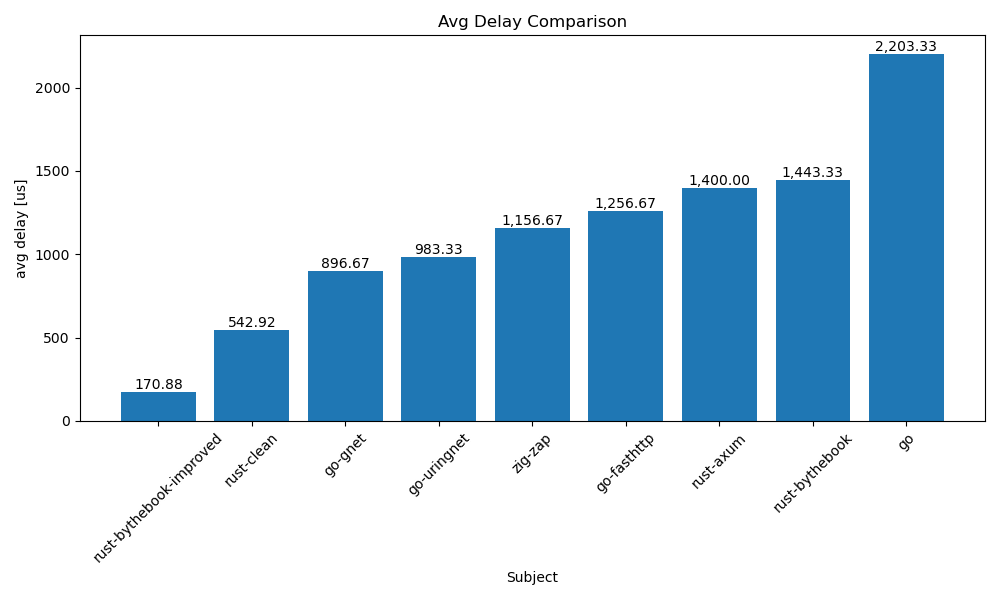
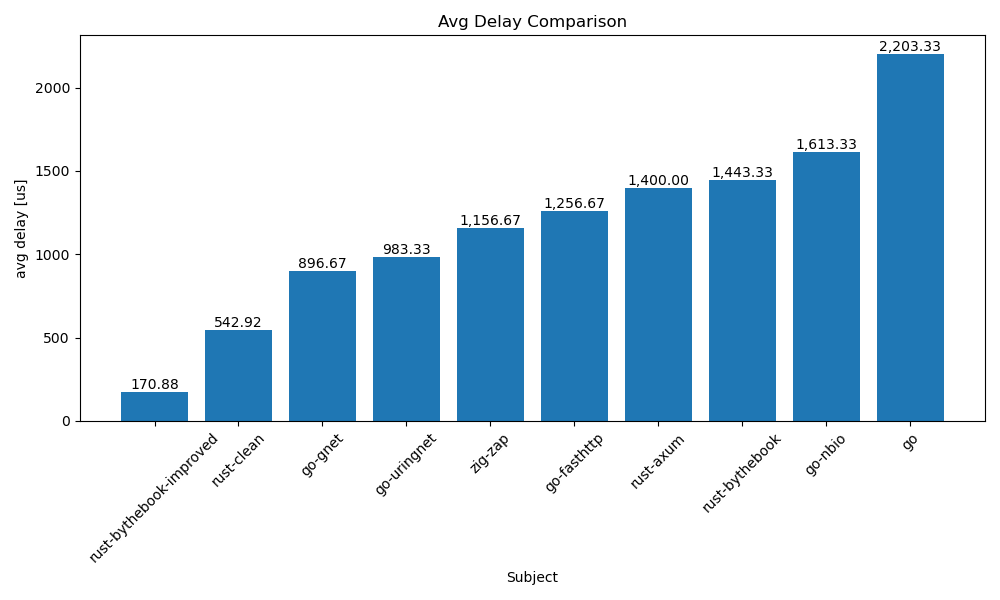
update: add test report for nbio

diff --git a/wrk/go-nbio/main.go b/wrk/go-nbio/main.go
@@ -5,9 +5,9 @@ import (
 	"io"
 	"net/http"
 	_ "net/http/pprof"
-	"runtime"
-	"sync/atomic"
-	"time"
+	"os"
+	"os/signal"
+	"syscall"
 
 	"github.com/lesismal/nbio/nbhttp"
 )
@@ -23,9 +23,10 @@ func onEcho(w http.ResponseWriter, r *http.Request) {
 	if len(data) > 0 {
 		w.Write(data)
 	} else {
-		w.Write([]byte(time.Now().Format("20060102 15:04:05")))
+		// w.Write([]byte(time.Now().Format("20060102 15:04:05")))
+		w.Write(data)
 	}
-	atomic.AddUint64(&qps, 1)
+	// atomic.AddUint64(&qps, 1)
 }
 
 func main() {
@@ -34,7 +35,7 @@ func main() {
 
 	svr := nbhttp.NewEngine(nbhttp.Config{
 		Network: "tcp",
-		Addrs:   []string{"localhost:3000"},
+		Addrs:   []string{"localhost:8090"},
 		Handler: mux,
 	}) // pool.Go)
 
@@ -45,11 +46,15 @@ func main() {
 	}
 	defer svr.Stop()
 
-	ticker := time.NewTicker(time.Second)
-	for i := 1; true; i++ {
-		<-ticker.C
-		n := atomic.SwapUint64(&qps, 0)
-		total += n
-		fmt.Printf("running for %v seconds, NumGoroutine: %v, qps: %v, total: %v\n", i, runtime.NumGoroutine(), n, total)
-	}
+	ch := make(chan os.Signal)
+	signal.Notify(ch, syscall.SIGQUIT, syscall.SIGTERM, syscall.SIGINT)
+	<-ch
+
+	// ticker := time.NewTicker(time.Second)
+	// for i := 1; true; i++ {
+	// 	<-ticker.C
+	// 	n := atomic.SwapUint64(&qps, 0)
+	// 	total += n
+	// 	fmt.Printf("running for %v seconds, NumGoroutine: %v, qps: %v, total: %v\n", i, runtime.NumGoroutine(), n, total)
+	// }
 }
